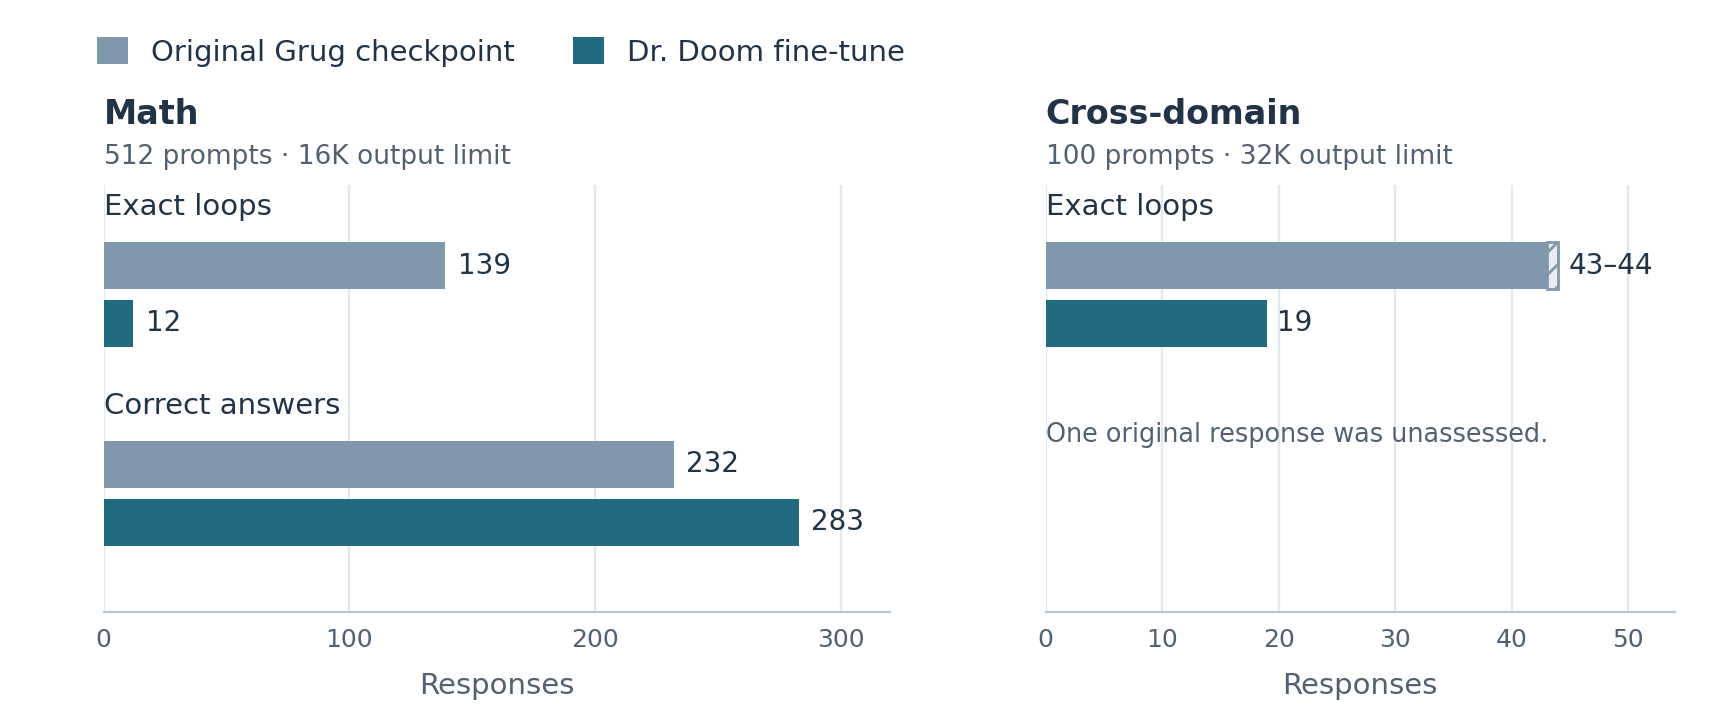
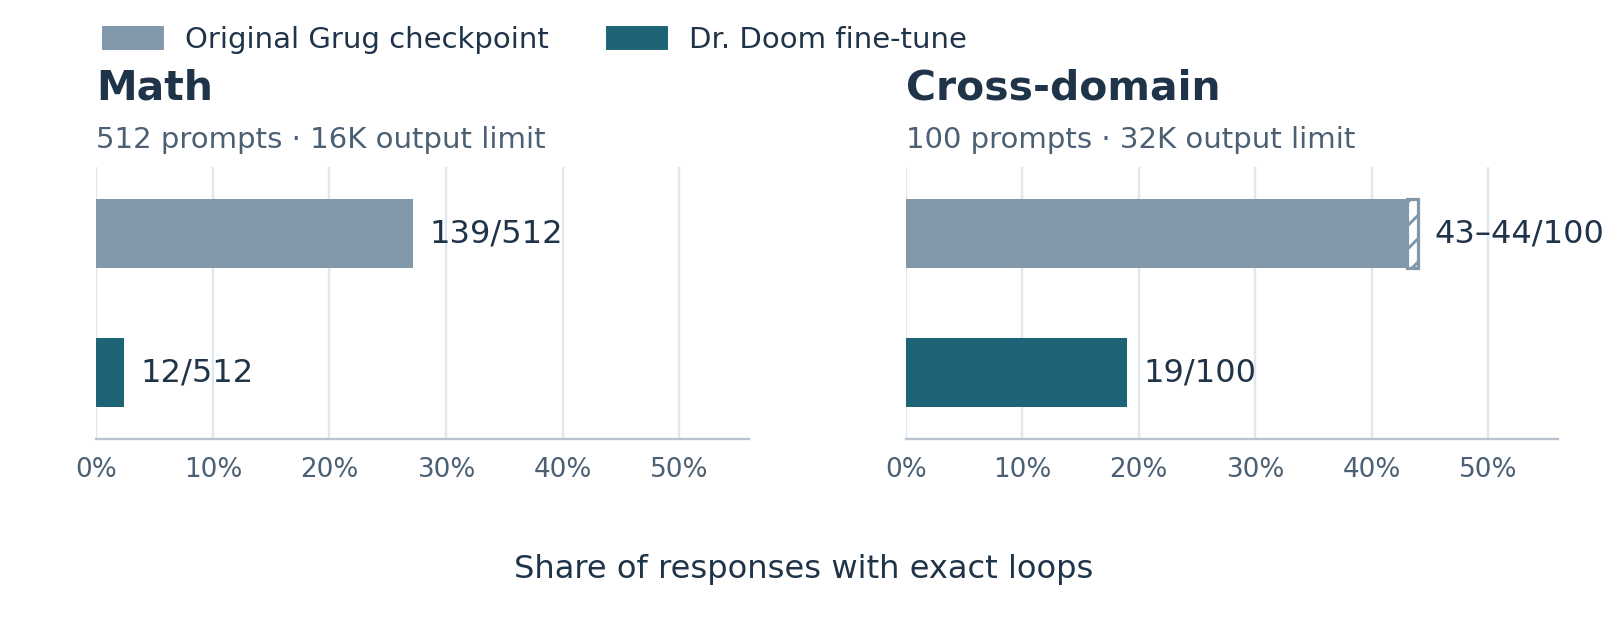
Plot repetition-loop rates on their own

diff --git a/_research_notes/token-feedback-repetition-loops.md b/_research_notes/token-feedback-repetition-loops.md
@@ -24,8 +24,8 @@ At that position, we took alternatives from the model's 32 highest-scored tokens
 
 On a separate set of 100 matched prompts spanning several domains at a 32K output limit, the original checkpoint had 43 confirmed loops and one unassessed response. The released checkpoint had 19 loops. We counted responses flagged by the same eight-copy rule, searching the full output window with maximum pattern lengths of 2,048 tokens at 16K and 4,096 tokens at 32K. Irregular repetition and repeated ideas can escape an exact-token check. [Evaluation protocol and results](https://huggingface.co/open-athena/Grug-67B-A2B-Datakit-SFT-262K-2026.09.21-dr-doom)
 
-![On the math prompts, loops fell from 139 to 12 of 512 and correct answers rose from 232 to 283. On cross-domain prompts, loops fell from 43 confirmed plus one unassessed to 19 of 100.](/assets/images/research-notes/token-feedback-repetition-loops/loop-results.png)
+![Exact loops fell from 139 to 12 of 512 math responses and from 43 confirmed plus one unassessed to 19 of 100 cross-domain responses.](/assets/images/research-notes/token-feedback-repetition-loops/loop-results.png)
 
-*Counts from one evaluation per checkpoint on each matched set. The range for the original cross-domain checkpoint accounts for one unassessed response. [Math evaluation receipt](https://huggingface.co/open-athena/Grug-67B-A2B-Datakit-SFT-262K-2026.09.21-dr-doom/blob/main/evidence/dapo-mixed-long-smoke-v2-step2-loops.json) · [Original cross-domain receipt](https://huggingface.co/open-athena/Grug-67B-A2B-Datakit-SFT-262K-2026.09.21-dr-doom/blob/main/evidence/cross-domain-original-32k-full-window-loops-v2.json) · [Fine-tuned cross-domain receipt](https://huggingface.co/open-athena/Grug-67B-A2B-Datakit-SFT-262K-2026.09.21-dr-doom/blob/main/evidence/cross-domain-mixed-long-smoke-v2-step2-loops.json)*
+*Loop rates from one evaluation per checkpoint on each matched set. Bar labels give counts. The range for the original cross-domain checkpoint accounts for one unassessed response. [Math evaluation receipt](https://huggingface.co/open-athena/Grug-67B-A2B-Datakit-SFT-262K-2026.09.21-dr-doom/blob/main/evidence/dapo-mixed-long-smoke-v2-step2-loops.json) · [Original cross-domain receipt](https://huggingface.co/open-athena/Grug-67B-A2B-Datakit-SFT-262K-2026.09.21-dr-doom/blob/main/evidence/cross-domain-original-32k-full-window-loops-v2.json) · [Fine-tuned cross-domain receipt](https://huggingface.co/open-athena/Grug-67B-A2B-Datakit-SFT-262K-2026.09.21-dr-doom/blob/main/evidence/cross-domain-mixed-long-smoke-v2-step2-loops.json)*
 
 The evaluations used the same prompts with different runtimes and weight-loading setups, so the comparisons cannot separate the effect of the training objective from the other changes. Across the math set and the cross-domain set, the selected checkpoint missed its loop target in 10 of 17 measured domains. Small domain counts make individual rates noisy. On the larger math set, 12 loops out of 512 still exceeded the campaign's 2% threshold. [Per-domain results](https://huggingface.co/open-athena/Grug-67B-A2B-Datakit-SFT-262K-2026.09.21-dr-doom/blob/main/selected-domain-results.md)
